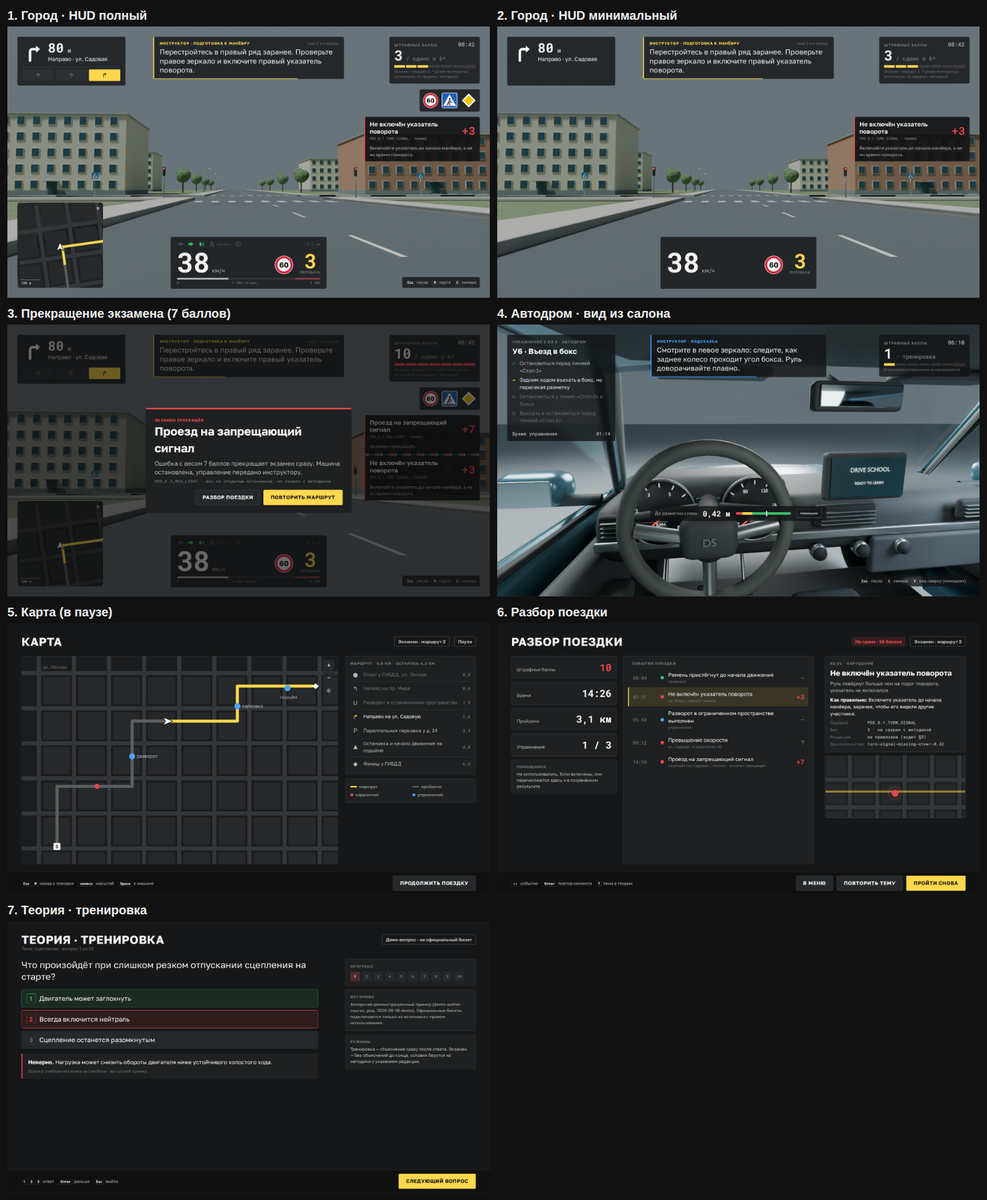
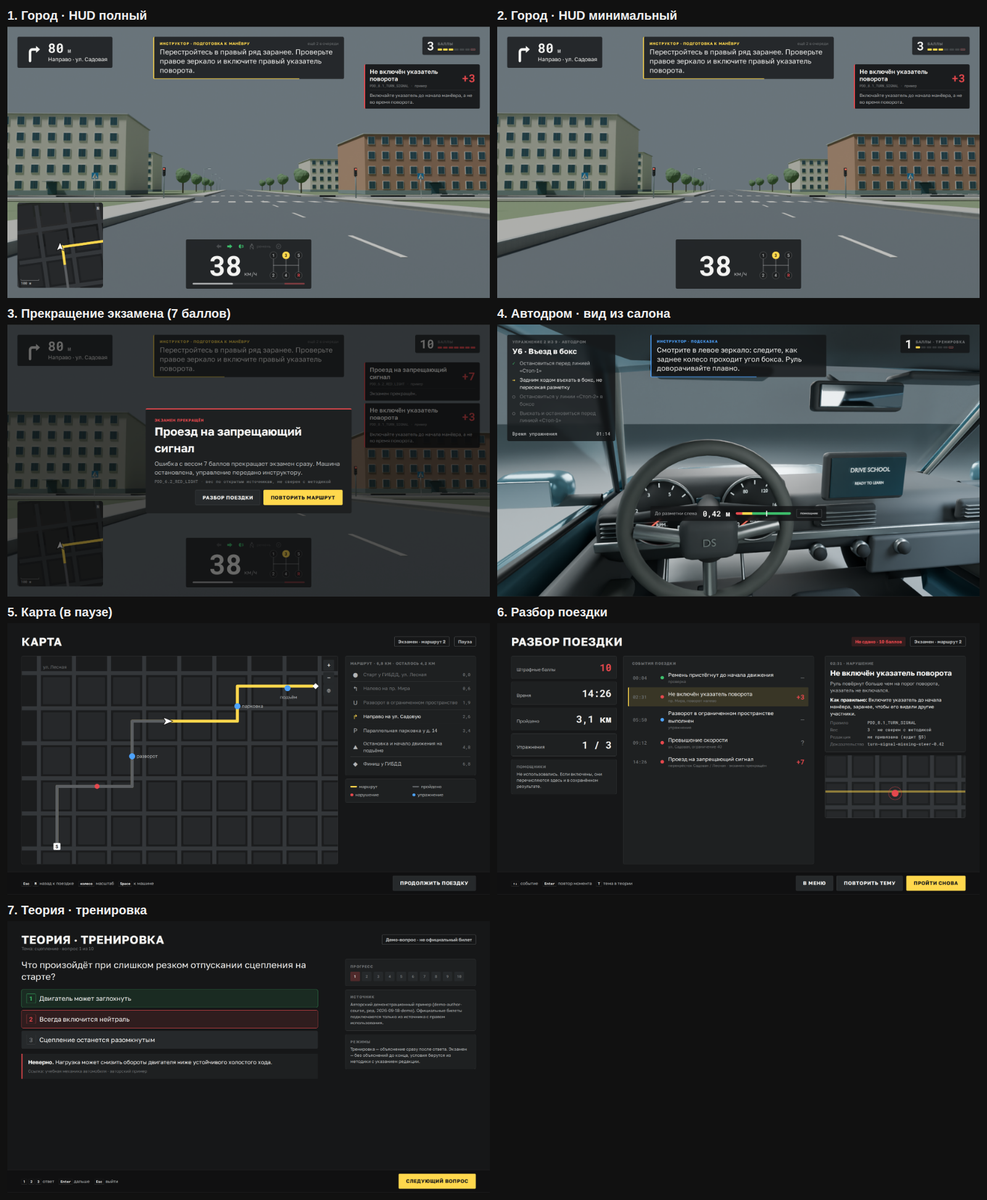
ui: HUD по замечаниям, шрифт Golos, переход на G29 в документах
- HUD: убраны знаки, подсказки клавиш, ряд полос, дистанция и знак
  ограничения в приборах; баллы — компактно; передача — схема H-паттерна;
  скорость краснеет при превышении.
- Шрифт Golos Text + Roboto Mono утверждён, применён в макетах.
- Руль G29 + Driving Force Shifter: CLAUDE.md, requirements R02,
  architecture, implementation-plan; карточка T28 на код и тесты.

Claude-Session: https://claude.ai/code/session_01NkQXFwYBC5ChTNUDyD4Eks

diff --git a/artifacts/visual-review/settings/index.html b/artifacts/visual-review/settings/index.html
@@ -7,7 +7,7 @@
 <meta name="description" content="Интерактивный макет экрана «Настройки» DrivingSchoolSim: вкладки, применение, несохранённые изменения, подтверждение разрешения, клавиатурная навигация.">
 <link rel="preconnect" href="https://fonts.googleapis.com">
 <link rel="preconnect" href="https://fonts.gstatic.com" crossorigin>
-<link href="https://fonts.googleapis.com/css2?family=Roboto+Condensed:wght@500;700&family=Inter:wght@400;500;600&family=IBM+Plex+Mono:wght@400;600&display=swap" rel="stylesheet">
+<link href="https://fonts.googleapis.com/css2?family=Golos+Text:wght@400;500;600;700&family=Roboto+Mono:wght@400;600&display=swap" rel="stylesheet">
 <style>
 /* Цвета — только через токены ниже. */
 :root{
@@ -19,7 +19,7 @@
   --line:rgba(255,255,255,.08); --track:#3A3D40;
   --chrome:#0F1011; --chrome-a:rgba(15,16,17,.9); --glass:rgba(30,32,33,.95);
   --drive-a:#2A2C2E; --drive-b:#232527; --drive-shade:rgba(22,23,24,.6); --drive-shade2:rgba(22,23,24,.93);
-  --f-head:'Roboto Condensed',system-ui,sans-serif; --f-body:'Inter',system-ui,sans-serif; --f-mono:'IBM Plex Mono',ui-monospace,monospace;
+  --f-head:'Golos Text',system-ui,sans-serif; --f-body:'Golos Text',system-ui,sans-serif; --f-mono:'Roboto Mono',ui-monospace,monospace;
   --r:2px; --t:150ms ease-in-out;
 }
 *{box-sizing:border-box;margin:0;padding:0}

diff --git a/artifacts/visual-review/fonts/index.html b/artifacts/visual-review/fonts/index.html
@@ -93,7 +93,7 @@ const PAIRS = [
 ];
 document.getElementById('grid').innerHTML = PAIRS.map(p => `
  <section class="card ${p.rec ? 'rec' : ''}">
-  <div class="meta"><b>${p.name}${p.rec ? '<span class="tag">РЕКОМЕНДУЮ</span>' : ''}</b>
+  <div class="meta"><b>${p.name}${p.rec ? '<span class="tag">ВЫБРАН 24.09</span>' : ''}</b>
    <dl><dt>Лицензия</dt><dd>${p.lic}</dd><dt>Авторы</dt><dd>${p.who}</dd><dt>Источник</dt><dd>${p.src}</dd><dt>Почему</dt><dd>${p.why}</dd></dl></div>
   <div class="demo" style="font-family:${p.body}">
    <div class="h" style="font-family:${p.head}">Настройки</div>

diff --git a/docs/ui-drive.md b/docs/ui-drive.md
@@ -6,18 +6,21 @@
 
 ## 1. Зоны HUD (кадр 1920×1080)
 
+Правка владельца 24.09: HUD — только то, что нужно водителю сейчас. Убраны: панель знаков в зоне действия, подсказки клавиш, ряд полос в навигаторе, дистанция и знак ограничения в приборах, подробности у штрафных баллов.
+
 | Зона | Элемент | Полный | Минимальный | Выкл. |
 |---|---|---|---|---|
-| Слева вверху | Навигатор: стрелка манёвра, расстояние, улица, полосы | ✓ | без полос | — |
+| Слева вверху | Навигатор: одна стрелка манёвра, расстояние, улица | ✓ | ✓ | — |
 | Сверху по центру | Подсказка инструктора | ✓ | ✓ | ✓ (если `instructorHints` ≠ Выкл.) |
-| Справа вверху | Штрафные баллы, шкала, время | ✓ | ✓ | ✓ |
-| Справа, под баллами | Знаки в зоне действия (ограничение, переход, главная) | ✓ | — | — |
-| Справа по центру | Карточки нарушений (не больше 2, 7 с) | ✓ | ✓ | ✓ |
+| Справа вверху | Штрафные баллы: число + 7 сегментов, последний — прекращение | ✓ | ✓ | ✓ |
+| Справа, под баллами | Карточки нарушений (не больше 2, 7 с) | ✓ | ✓ | ✓ |
 | Слева внизу | Мини-карта, север вверху, масштаб | ✓ | — | — |
-| Снизу по центру | Приборы: скорость, ограничение, передача, обороты, контрольные лампы | ✓ | скорость, ограничение, передача | — |
-| Справа внизу | Подсказки клавиш | ✓ | — | — |
+| Снизу по центру | Приборы: контрольные лампы, скорость, схема КПП, полоса оборотов | ✓ | скорость + схема КПП | — |
 
+- **Скорость** краснеет при превышении текущего ограничения. Самого знака в HUD нет: ограничение видно на дороге.
+- **Передача — графически**: схема H-паттерна текущего автомобиля, включённая передача подсвечена акцентом, нейтраль — точка в центре, R — красной цифрой. Раскладка (число передач, место R) берётся из данных автомобиля, не зашивается в UI. Для АКПП — строка P R N D с подсвеченным положением.
 - **Нарушения и прекращение экзамена показываются всегда**, в любом режиме HUD: это обратная связь обучения, а не украшение.
+- Подсказок клавиш в поездке нет. Управление описано в меню паузы и настройках.
 - Масштаб всего HUD — `gameplay.uiScale`. Отступ от края кадра — 40 px на 1920, чтобы HUD не резался на ТВ с overscan и в VR.
 - Вид из салона: реальная приборная панель модели уже показывает скорость и обороты, поэтому по умолчанию HUD-приборы скрываются (макет «Автодром»). Настройка — после появления вида из салона.
 
@@ -75,7 +78,8 @@
 | Скорость, передача, обороты | `VehicleState.signedSpeedMps`, `gear`, `engineRpm` | да |
 | Указатели, ближний/дальний свет | `VehicleState.leftIndicator/rightIndicator/lowBeam/highBeam` | поля есть; `DriverCommand` их не передаёт (аудит §7, этап 1) |
 | Ремень, аварийка, стояночный тормоз | `DriverCommand.handbrake` есть; ремня и аварийки нет | частично |
-| Ограничение и знаки в зоне | `RoadSegment.speedLimitKph`; знаки — объекты мира | ограничение да, знаки нет |
+| Ограничение (для красной скорости) | `RoadSegment.speedLimitKph` | да |
+| Схема КПП | данные автомобиля (число передач, место R) | нет, нужно поле в описании автомобиля |
 | Нарушения, баллы | `RuleEvent` (`ruleId`, `penalty`, `explanationKey`, `evidenceId`) | да; таблица весов не сверена |
 | Шаги упражнения | `course-v2.json` → урок | названия да, шаги нет |
 | Маршрут, улицы, полосы | roadgraph v2 | нет |
@@ -83,7 +87,7 @@
 
 ## 8. Управление в поездке (G29, предложение)
 
-Меню — по `docs/ui-settings.md` §6. В поездке: OPTIONS — пауза, SHARE — карта, △ — камера. Поворотники, свет, ремень и аварийка — после расширения `DriverCommand` (аудит §7, этап 1) и HID-раскладки G29 (T04).
+Меню — по `docs/ui-settings.md` §6. В поездке: OPTIONS — пауза, SHARE — карта, △ — камера. На экране эти кнопки не подписываются. Поворотники, свет, ремень и аварийка — после расширения `DriverCommand` (аудит §7, этап 1) и HID-раскладки G29 (T04).
 
 ## 9. Следующие шаги
 

diff --git a/docs/tasks/T28.md b/docs/tasks/T28.md
@@ -1,0 +1,47 @@
+# T28 — Переход с G27 на G29 + Driving Force Shifter
+
+- **Требования:** R02 (ввод), R03 (FFB), R15 (доказуемость).
+- **Критерий приёмки:** A04 (input), A05 (FFB).
+- **Основание:** 24.09.2026 владелец уточнил железо: Logitech G29 + Driving Force Shifter, а не G27. Решение записано в CLAUDE.md и requirements.md R02.
+
+## 1. Конкретный результат и зависимости
+
+Код и документы перестают предполагать G27:
+- адаптер руля и его тесты называются по назначению (`LogitechWheelAdapter` или по модели G29 — решить в начале задачи), имена тестов обновлены;
+- раскладка осей и кнопок G29 и шифтера снята с реального устройства (live axes в калибровке) и записана как данные, а не угадана по имени устройства (architecture.md §«Ввод»);
+- кнопки меню по `docs/ui-settings.md` §6 (крестовина, ✕, ○, лепестки, OPTIONS) привязаны через Input System actions;
+- FFB-бэкенд для G29 выбран с обоснованием лицензии и доставки DLL (architecture.md), до выбора — только mock.
+
+Зависимость: T04 (keyboard input) как образец `IInputSource`; T05 (калибровка) переименовать и перепроверить под G29.
+
+## 2. Разрешённая область изменений
+
+Места с упоминанием G27 на 24.09.2026:
+- `Assets/DrivingSchool/Code/Input/LogitechG27Adapter.cs`, `Assets/DrivingSchool/Code/Tests/LogitechG27Tests.cs`
+- `Assets/DrivingSchool/Code/Presentation/TrainingVehicle.cs` (комментарий)
+- `Assets/DrivingSchool/Code/Editor/UIBuilder.cs`, `UIRenderer.cs` → пересобрать префабы генератором, руками `Prefabs/UI/*.prefab` не править
+- `tools/verify_evidence.py`, `tools/AdversarialStressRunner.cs`
+- `docs/tasks/T05.md`, `T26.md`, `docs/acceptance.md`, `docs/current-state.md` (исторический — пометить, не переписывать), `docs/audit-2026-09-23.md` (не править: снимок на дату)
+
+Переименование файлов делать вместе с `.meta`, чтобы GUID сохранился.
+
+## 3. Входы, выходы, контракты
+
+- Выход — тот же `DriverCommand` (`IInputSource`): руль −1…1, педали 0…1, `requestedGear` −1/0/1…6. Контракты не меняются.
+- Шифтер: 6 передач + R; R включается нажатием рычага вниз (как у G27 — проверить на устройстве).
+
+## 4. Отрицательные сценарии
+
+- Руль подключён без шифтера → H-передачи недоступны, UI показывает это; лепестки не подменяют H-паттерн молча.
+- Отключение руля или шифтера в поездке → газ 0, пауза (A04).
+- Неизвестное устройство с похожим именем → не применять раскладку G29 автоматически.
+
+## 5. Проверка и доказательства
+
+- EditMode: переименованные тесты адаптера проходят; добавлен тест «без шифтера передача = N».
+- Аппаратно: протокол калибровки на реальном G29 + шифтере (оси, кнопки, 6+R) в `artifacts/reports/`.
+- `grep -rn G27` по `Assets/` и `tools/` пуст, кроме истории миграции.
+
+## 6. Условия завершения
+
+Код, тесты, генератор UI и документы используют G29; раскладка кнопок подтверждена на устройстве; статусы по формату CLAUDE.md.

diff --git a/docs/ui-settings.md b/docs/ui-settings.md
@@ -108,7 +108,7 @@ flowchart LR
 ## 6. Что нужно решить до кода
 
 1. ~~Палитра~~ — **решено 24.09**, см. §8. Осталось поправить токены в T03 и константы `UIBuilder`.
-2. **Шрифт** — выбор за владельцем. Образцы четырёх пар: `artifacts/visual-review/fonts/index.html` (скриншот `fonts.png`). Рекомендация: **Golos Text + Roboto Mono**. Лицензии проверены по `google/fonts` (METADATA.pb, OFL.txt) 24.09.2026: Golos Text, Roboto Condensed, Inter, PT Sans / Narrow / Mono, Roboto Mono, IBM Plex Mono (зарезервированное имя «Plex»), Manrope, JetBrains Mono — все SIL OFL 1.1 с подмножествами cyrillic и cyrillic-ext. Barlow Condensed — только latin/latin-ext/vietnamese. В сборку класть TTF и `OFL.txt` рядом (`Assets/DrivingSchool/Art/Fonts/<Family>/`).
+2. ~~Шрифт~~ — **решено 24.09: Golos Text + Roboto Mono** (цифры приборов и таймеров). Образцы и сравнение: `artifacts/visual-review/fonts/index.html`, `fonts.png`. Лицензии проверены по `google/fonts` (METADATA.pb, OFL.txt): все кандидаты — SIL OFL 1.1 с cyrillic и cyrillic-ext; у Barlow Condensed кириллицы нет. В проект класть TTF и `OFL.txt` рядом: `Assets/DrivingSchool/Art/Fonts/GolosText/`, `Assets/DrivingSchool/Art/Fonts/RobotoMono/`. Источники: github.com/googlefonts/golos-text, github.com/googlefonts/robotomono.
 3. ~~Где лежит `GameSettings`~~ — **решено: ADR-011**, отдельный чистый модуль `DS.Settings` + `SettingsStore`/`SettingsApplier` в `Presentation`.
 4. **Руль — Logitech G29, а не G27** (уточнено владельцем 24.09). Схема кнопок в меню (предложение, номера кнопок сверить в калибровке T04):
 
@@ -122,13 +122,13 @@ flowchart LR
 | OPTIONS | пауза / продолжить | Esc в поездке |
 | Колесо-селектор + красная кнопка | значение ← → / выбрать | ← → / Enter |
 
-   Лепестки в поездке переключают передачи только в режиме АКПП с ручным выбором, если он появится; в МКПП-режиме это не используется. **Открыто:** есть ли шифтер Driving Force Shifter (H-паттерн 6+R). В G29 его нет в комплекте, а R02 и A04 требуют H-паттерн. CLAUDE.md, requirements.md, architecture.md, `LogitechG27Adapter` и тесты по-прежнему говорят о G27 — переименование и проверку раскладки делать отдельной карточкой.
+   Шифтер Driving Force Shifter у владельца **есть** (24.09) — H-паттерн 6+R остаётся по R02. CLAUDE.md, requirements.md и architecture.md обновлены; код, тесты и генератор UI — карточка T28.
 
 ## 7. Следующие шаги
 
 1. Согласовать макет и §6.
 2. T03: главное меню в `UIBuilder` — настоящие `Button`, `InputSystemUIInputModule`, русские тексты, кириллический TMP-шрифт.
-3. Новая карточка T27 «Настройки»: модель и хранение + тесты, затем экран в `UIBuilder` + адаптер применения. Разделы Звук и FFB — со статусом «скоро».
+3. Карточка T27 «Настройки»: модель и хранение + тесты, затем экран в `UIBuilder` + адаптер применения. Разделы Звук и FFB — со статусом «скоро».
 
 ## 8. Цветовые темы
 

diff --git a/docs/requirements.md b/docs/requirements.md
@@ -3,7 +3,7 @@
 Приоритет MUST означает обязательство конечного продукта; это не заявление, что всё входит в текущий этап. Этап M0: модель, визуальные прототипы UI, архитектура, воспроизводимая передача. M1: локальная учебная поездка. M2: мир/трафик/обучение. M3: аппаратная проверка и производительность. Указанные карточки являются последовательными заготовками работ; одна карточка не заменяет интеграционную приёмку.
 
 - **R01 MUST, M0/M1 — платформа.** Windows x64, Unity6000.3.10f1, URP, Input System, uGUI/TMP, OpenXR. Задачи T01, T03, T24. Приёмка A01, A03, A14. Сейчас пакеты и editor builder подготовлены, UI IMGUI.
-- **R02 MUST, M1/M3 — ввод.** Клавиатура; G27 руль, три независимые педали, H-pattern МКПП, сохранение калибровки, disconnect/focus loss. Задачи T04, T05. Приёмка A04. Сейчас только IInputSource.
+- **R02 MUST, M1/M3 — ввод.** Клавиатура; руль Logitech G29 с Driving Force Shifter (до 24.09.2026 целевым был G27, см. T28), три независимые педали, H-pattern МКПП, сохранение калибровки, disconnect/focus loss. Задачи T04, T05. Приёмка A04. Сейчас только IInputSource.
 - **R03 MUST, M1/M3 — FFB.** Нормализованный ограниченный момент, безопасное обнуление на pause/focus loss/disconnect/dispose, явный статус недоступности. Задача T06. Приёмка A05. Сейчас только интерфейс.
 - **R04 MUST, M1 — учебная динамика.** Engine phases, запуск/заглохание, сцепление, передача момента, МКПП и АКПП, тормоза/ручник, подвеска, шины и устойчивое интегрирование. Задачи T07–T10. Приёмка A06. Формулы не считаются solver или реализмом; калибровка по данным обязательна.
 - **R05 MUST, M0/M1 — автомобиль.** Кузов/салон, три зеркала, читаемые приборы, отдельные pedals/pivots, коллизии, нейтральное положение и полный ход колёс, ручной/автоматический варианты. Задачи T02, T10, T23. Приёмка A02, A13. Арт имеет отдельного исполнителя.

diff --git a/docs/architecture.md b/docs/architecture.md
@@ -35,7 +35,7 @@ Unity X вправо, Y вверх, Z вперёд, SI. Канонические
 
 ## Ввод, FFB, VR и UI
 
-Keyboard и wheel adapter выдают один DriverCommand. Raw G27 bindings не предполагать по имени устройства: калибровка показывает live axes, инверсию, min/centre/max, dead zones, clutch semantics и H pattern. Combined pedals не считать тремя независимыми осями. Backend FFB для Windows — отдельная dependency за интерфейсом, с обоснованием лицензии и доставки DLL; наличие InputSystem не означает поддержку FFB.
+Keyboard и wheel adapter выдают один DriverCommand. Raw G29 bindings не предполагать по имени устройства: калибровка показывает live axes, инверсию, min/centre/max, dead zones, clutch semantics и H pattern. Combined pedals не считать тремя независимыми осями. Backend FFB для Windows — отдельная dependency за интерфейсом, с обоснованием лицензии и доставки DLL; наличие InputSystem не означает поддержку FFB.
 
 Существующий IMGUI — технический стенд. Девять экранов HTML-прототипа служат визуальной спецификацией; перенос выполняется отдельно в uGUI/TMP с InputSystemUIInputModule, focus/navigation, Russian font fallback и сохранением настроек. Отключённые будущие функции помечаются явно; кнопка не изображает рабочую поездку без solver.
 

diff --git a/docs/tasks/README.md b/docs/tasks/README.md
@@ -28,5 +28,7 @@
 24. [T24 — один OpenXR gate](T24.md): R01 → A14.
 25. [T25 — один benchmark профиль](T25.md): R14 → A18.
 26. [T26 — evidence manifest](T26.md): R15 → A19.
+27. T27 — модель и экран настроек (карточка будет заведена; см. ADR-011, `docs/ui-settings.md`): R01 → A03.
+28. [T28 — переход с G27 на G29 + Driving Force Shifter](T28.md): R02/R03 → A04/A05.
 
 Карточки ссылаются на команды [C00–C05](../acceptance.md#команды). Будущие test fixture names не существуют до выполнения карточки. Сначала добавить содержательный test, затем запустить C01 и проверить, что он реально найден. Один неверный вход должен демонстрировать отказ; тесты, просто повторяющие реализацию, не подходят. Hardware/video/manual evidence не заменяются EditMode mocks.

diff --git a/docs/implementation-plan.md b/docs/implementation-plan.md
@@ -37,7 +37,7 @@ T24 запускается после desktop correctness и T23: OpenXR rig, о
 ## Порядок зависимостей
 
 - T01 → T02/T03/T04/T07/T11/T15/T20/T22/T26.
-- T04 → T05 → T06; mock FFB harness можно сделать без G27, аппаратная приёмка остаётся отдельной.
+- T04 → T05 → T06; mock FFB harness можно сделать без руля, аппаратная приёмка остаётся отдельной.
 - T07 → T08 → T09 → T10 → T23; T20 → T21; интеграция T21 требует T10 и соответствующих T18 events.
 - T11 → T14/T12/T16/T17/T18; T12 → T13; T14 save/reload требует T15.
 - T10 → T19; T03/T23 → T24; T12/T13/T16/T17/T19/T23 → T25 desktop; T24 → T25 XR.

diff --git a/CLAUDE.md b/CLAUDE.md
@@ -6,7 +6,7 @@
 ## Стек и окружение
 - Unity **6000.3.10f1**, URP 17.3, Input System 1.18 (activeInputHandler = Both), uGUI/TMP, OpenXR. Windows x64.
 - Unity.exe: `E:\unityroot\6000.3.10f1\Editor\Unity.exe`.
-- Целевое железо: Ryzen 2700X / RTX 2080 / 32 GB, 1920×1080 @ 60 fps. Руль Logitech G27 (900°, 3 педали, H-шифтер 6+R).
+- Целевое железо: Ryzen 2700X / RTX 2080 / 32 GB, 1920×1080 @ 60 fps. Руль Logitech G29 + Driving Force Shifter (900°, 3 педали, H-шифтер 6+R). Код и часть документов ещё называют его G27 — переход в `docs/tasks/T28.md`.
 
 ## Где что лежит
 - `Assets/DrivingSchool/Code/<Module>/` — код, модуль = asmdef:
